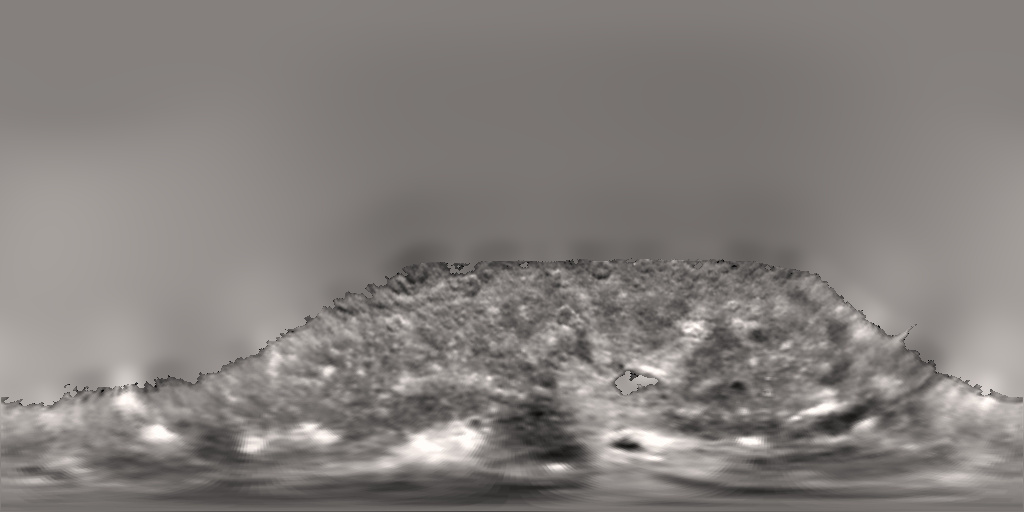
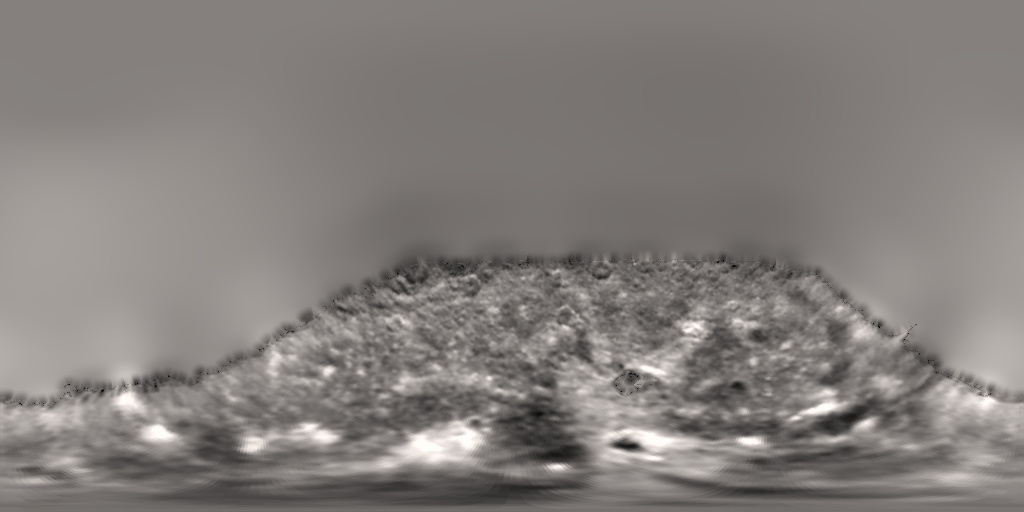
AST-381-03 iteration 7: reconstruction guide starts at the observed edge colour (0.35° normalised convolution of shown pixels) and relaxes to the regional guide over 4° — removes the brighter band beside darkened mosaic rims (Pluto/Charon)

diff --git a/tools/ingest/partial_recon.py b/tools/ingest/partial_recon.py
@@ -29,6 +29,7 @@ enc = lambda a: np.where(a <= 0.0031308, a * 12.92, 1.055 * np.power(np.clip(a, 
 def gauss_wrap(a, sig_px):  # Gaussian blur, wrapping in longitude, reflecting at the poles
     return ndimage.gaussian_filter(a, sigma=sig_px, mode=('reflect', 'wrap'))
 stats = {}
+EDGE_RELAX_DEG = 4.0   # iteration 7: guide relaxes from the observed edge colour to the regional guide
 RIM_DEG = 2.0    # rim of the observed region excluded from the guide statistics (low-sun / terminator-darkened pixels)
 for name, thr in BODIES.items():
     src = os.path.join(ROOT, f'public/assets/tex/{name}.jpg')
@@ -54,6 +55,23 @@ for name, thr in BODIES.items():
         for k in range(3): num[..., k] += wgt * gauss_wrap(np.where(src, rgb[..., k], 0.0), sg)
     eps = 1e-6
     guide = (num + gm * eps) / (den + eps)[..., None]
+    # iteration 7 (boundary continuity): the regional guide is built from the observed CORE (rim > 2° excluded), but on
+    # Pluto and Charon the last ~4° of observed data are 25–40 % darker than the core (median by distance from the gap:
+    # Pluto 0.34 → 0.20, Charon 0.51 → 0.39; Triton/Titania < 3 %), so the gap started 40 % brighter than the observed
+    # pixels beside it — the "lighter band" along the boundary. The guide now STARTS at the observed edge colour (normalised
+    # convolution, 0.35°, of the pixels the renderer actually shows — mask eroded 0.4° exactly like *_mask.jpg) and relaxes
+    # to the regional guide over EDGE_RELAX_DEG. Same rule for every body; observed pixels are untouched (w = 0 there).
+    shown = ndimage.binary_erosion(obs, iterations=max(1, int(round(0.4 * H / 180))))
+    sg = 0.35 * H / 180.0
+    eden = gauss_wrap(shown.astype(float), sg)
+    edge = np.stack([gauss_wrap(np.where(shown, rgb[..., k], 0.0), sg) for k in range(3)], -1) / np.maximum(eden, 1e-6)[..., None]
+    # beyond the blur reach the edge field is undefined: propagate the nearest valid value
+    valid = eden > 1e-3
+    idx = ndimage.distance_transform_edt(np.concatenate([~valid] * 3, axis=1), return_distances=False, return_indices=True)
+    iy, ix = idx[0][:, W:2 * W], idx[1][:, W:2 * W] % W
+    edge = edge[iy, ix]
+    t = np.clip(d / EDGE_RELAX_DEG, 0, 1); t = (t * t * (3 - 2 * t))[..., None]
+    guide = edge * (1 - t) + guide * t
     guide[obs] = rgb[obs]                                      # never used on observed pixels (w = 0); keeps the JPEG smooth
     # contrast statistics of the observed core: fine (≲2 px) and mid (1°–6° band, difference of Gaussians), relative
     hp = Y - gauss_wrap(np.where(obs, Y, 0.0), 2.0) / np.maximum(gauss_wrap(obs.astype(float), 2.0), 1e-6)
@@ -65,7 +83,7 @@ for name, thr in BODIES.items():
     Image.fromarray((np.clip(enc(np.clip(guide, 0, 1)), 0, 1) * 255 + 0.5).astype(np.uint8)).save(os.path.join(ROOT, f'public/assets/tex/{name}_recon.jpg'), quality=95, subsampling=0)
     Image.fromarray((np.clip(w, 0, 1) * 255 + 0.5).astype(np.uint8)).save(os.path.join(ROOT, f'public/assets/tex/{name}_reconw.jpg'), quality=95)
     stats[name] = {'observedMeanLinRGB': [round(float(x), 5) for x in gm_global], 'boundaryZoneMeanLinRGB': [round(float(x), 5) for x in gm], 'smallScaleRelContrast': round(rel, 4), 'midScaleRelContrast_1to6deg': round(mid, 4),
-                   'feather_deg': FEATHER_DEG, 'sigma_deg': SIGMA_DEG, 'relax_deg': RELAX_DEG, 'rimExcluded_deg': RIM_DEG, 'unobservedFraction_at_1024': round(float((~obs).mean()), 4)}
+                   'feather_deg': FEATHER_DEG, 'sigma_deg': SIGMA_DEG, 'relax_deg': RELAX_DEG, 'rimExcluded_deg': RIM_DEG, 'edgeRelax_deg': EDGE_RELAX_DEG, 'unobservedFraction_at_1024': round(float((~obs).mean()), 4)}
     # non-fabrication check on the WRITTEN file: the weight must be ~0 wherever the source map has data
     wr = np.asarray(Image.open(os.path.join(ROOT, f'public/assets/tex/{name}_reconw.jpg')).convert('L'), float) / 255.0
     stats[name]['maxWeightOnObserved'] = round(float(wr[ndimage.binary_erosion(obs, iterations=2)].max()), 4)
